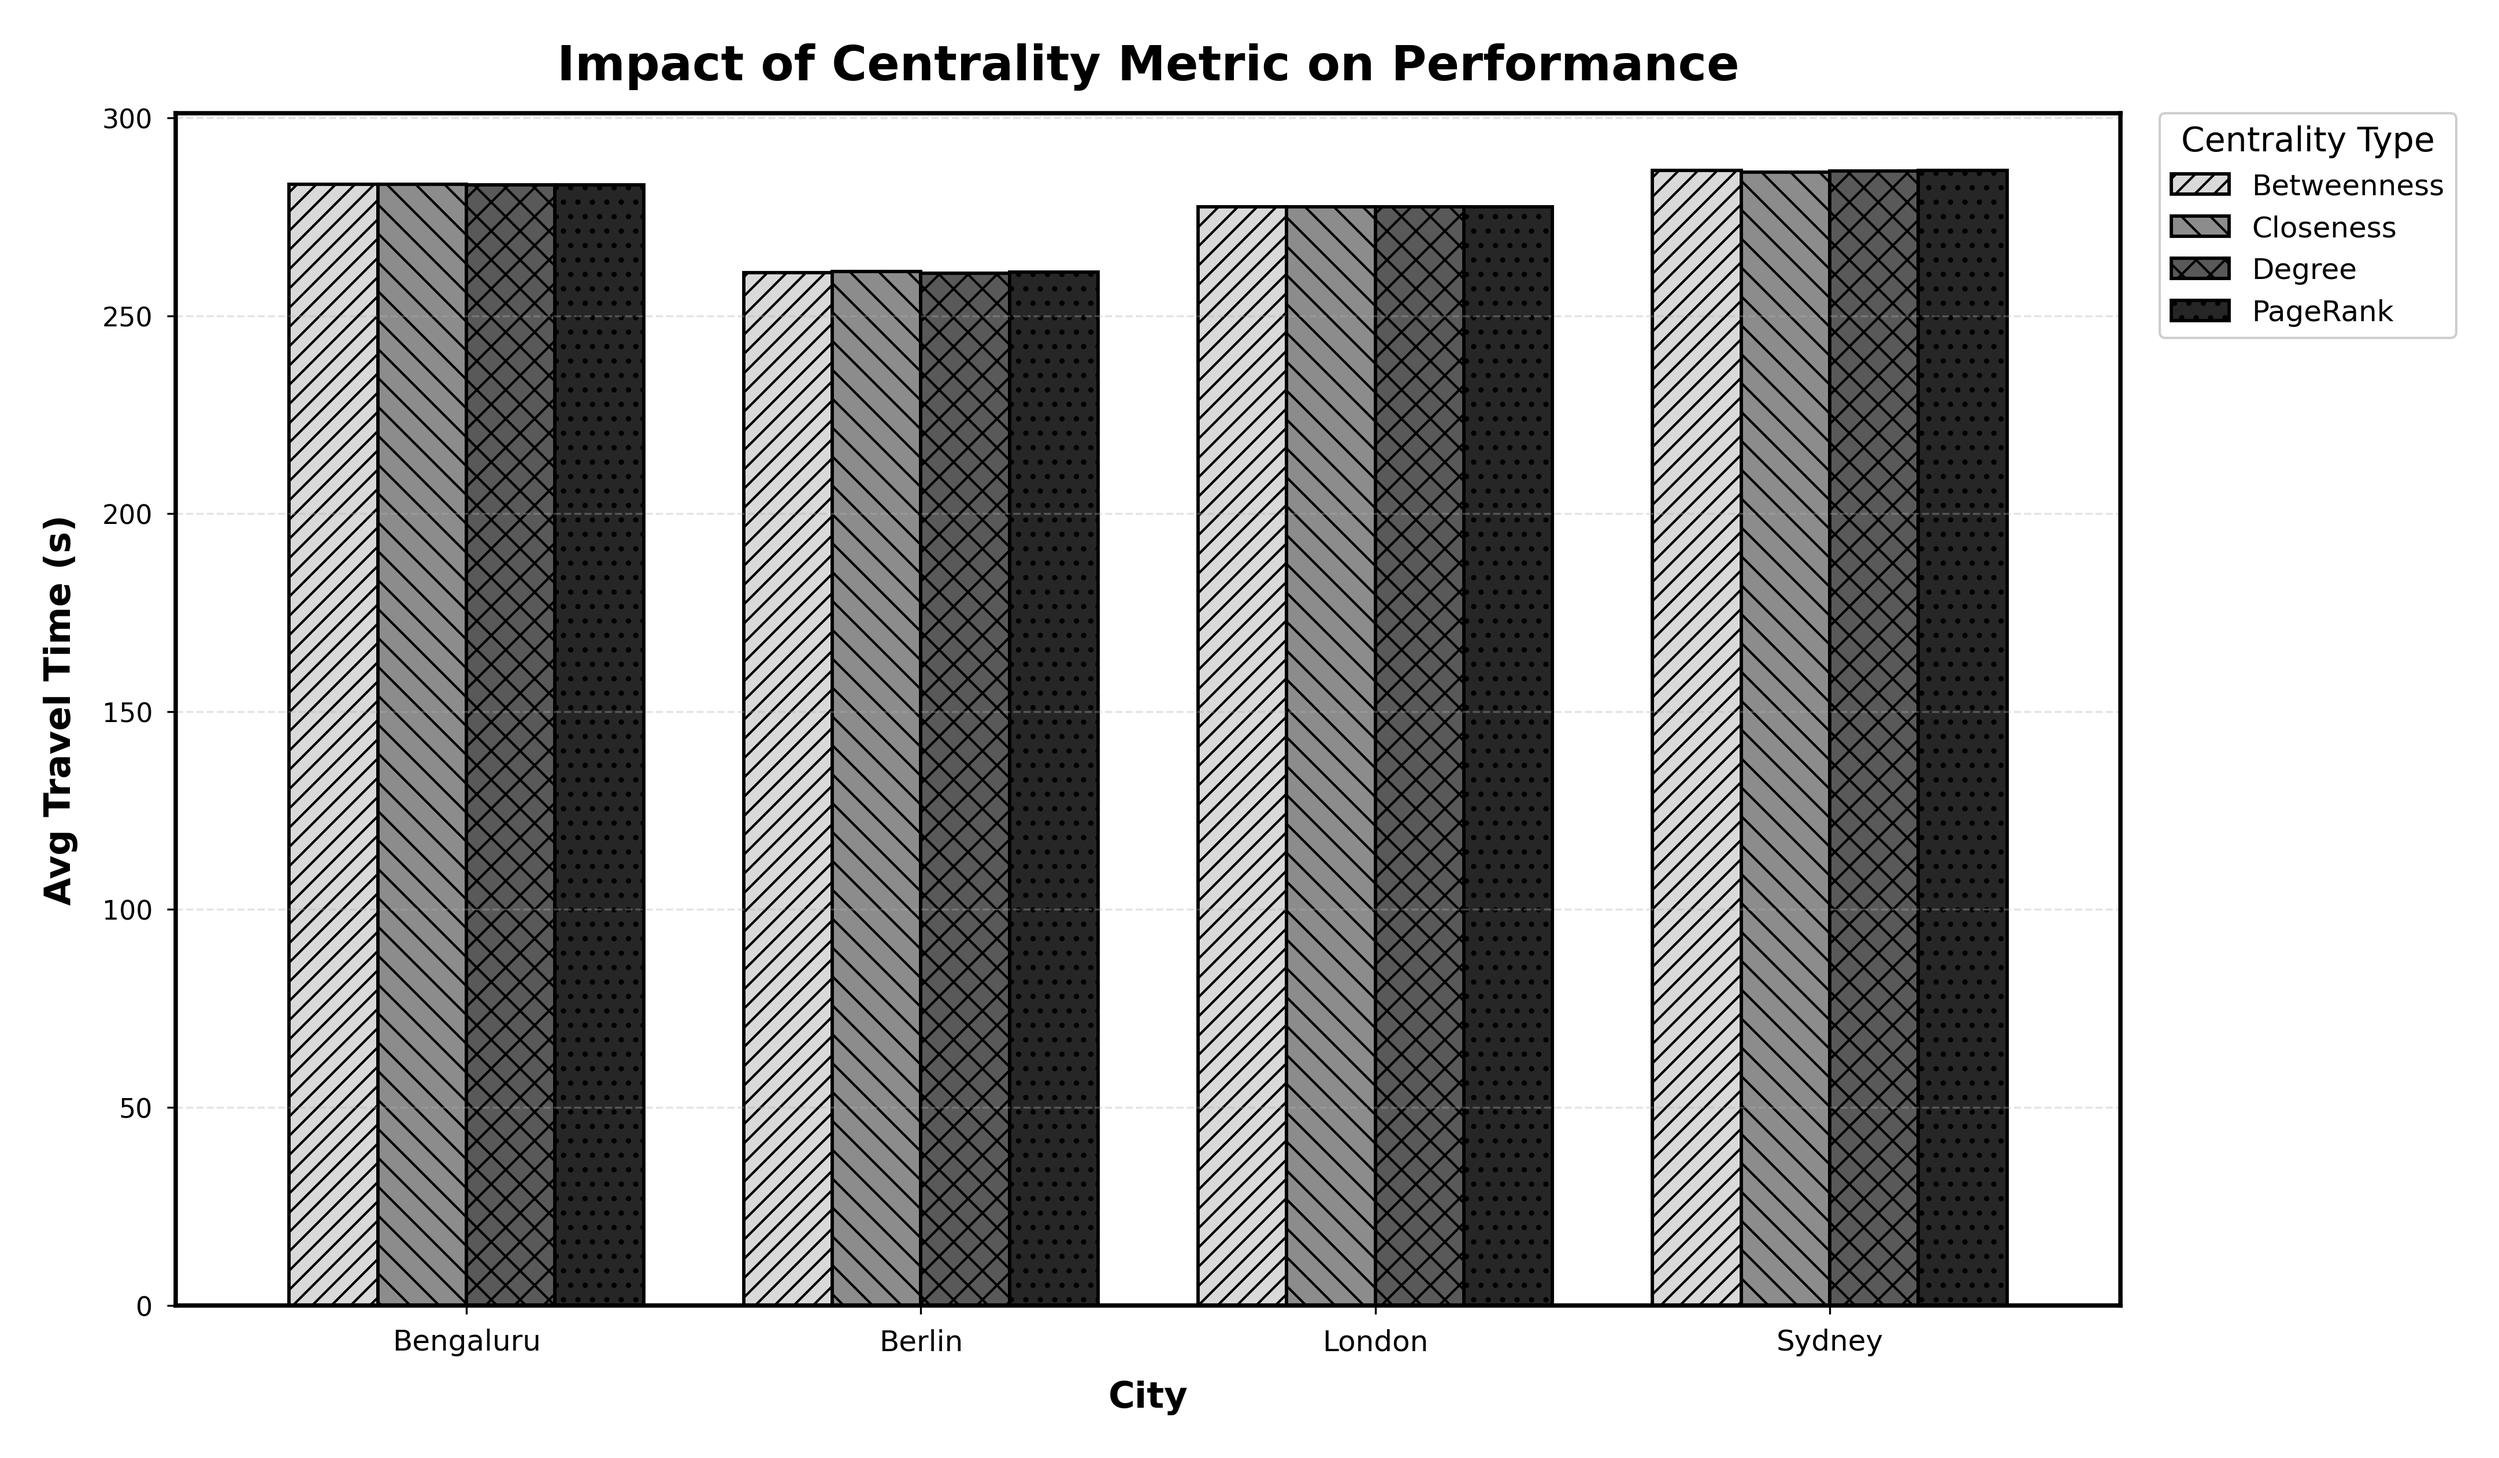
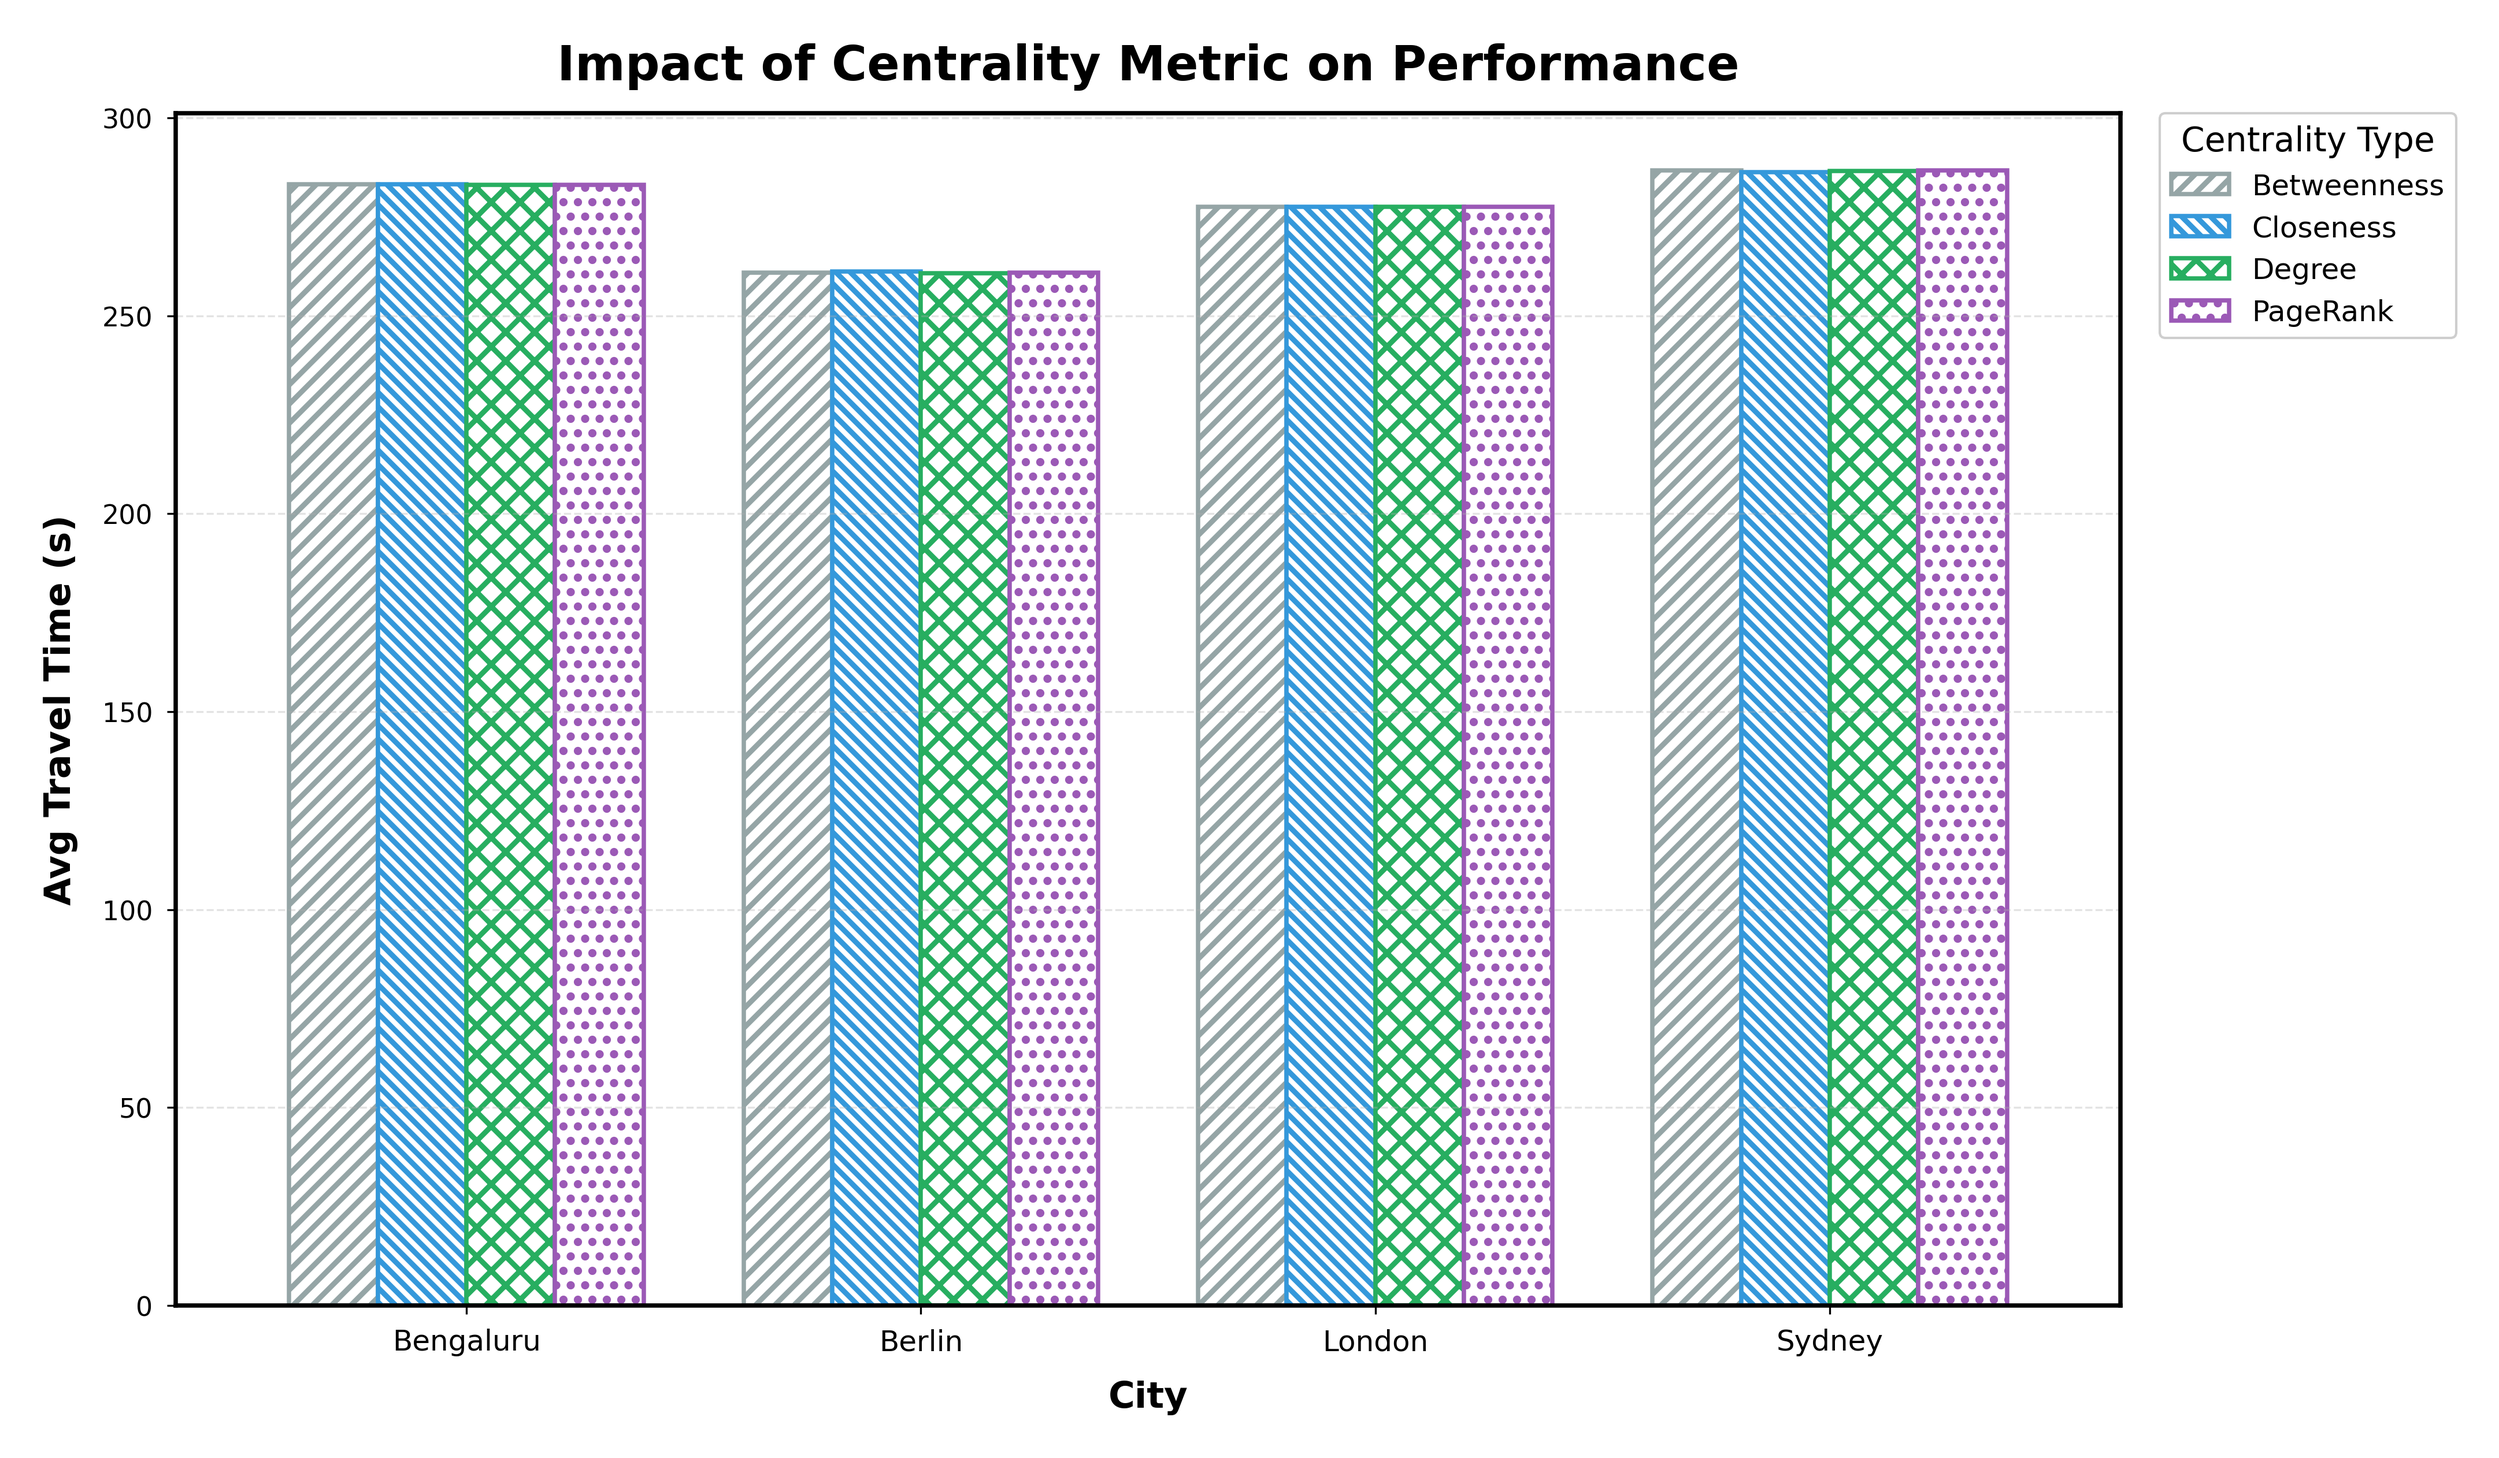
Improve bar styling for centrality plot
Use a color palette with hatch patterns for on-screen and grayscale
printing. Increase hatch and edge linewidths, render bars with white
faces and colored edges, and remove obsolete final_paper_grid_hd.png.

diff --git a/centrality_comparison.py b/centrality_comparison.py
@@ -90,18 +90,26 @@ def run_multi_city_comparison():
         'legend.frameon': True,
     })
     fig, ax = plt.subplots(figsize=(14, 8), constrained_layout=True)
+    palette = ['#95a5a6', '#3498db', '#27ae60', '#9b59b6']
+    hatches = ['///', '\\\\\\\\', 'xx', '..']
+    plt.rcParams['hatch.linewidth'] = 2.2
     pivot_df.plot(
         kind='bar',
         ax=ax,
         edgecolor='black',
-        linewidth=1.4,
-        color=['#d9d9d9', '#8c8c8c', '#595959', '#262626'],
+        linewidth=1.8,
+        color=palette,
         width=0.78,
     )
-    bars, hatches = ax.patches, ['///', '\\\\', 'xx', '..']
-    num_measures = len(pivot_df.columns)
-    for i, bar in enumerate(bars):
-        bar.set_hatch(hatches[i // num_measures])
+
+    # Keep color for on-screen readability and hatch patterns for grayscale printing.
+    for measure_idx, container in enumerate(ax.containers):
+        edge_color = palette[measure_idx % len(palette)]
+        hatch = hatches[measure_idx % len(hatches)]
+        for bar in container:
+            bar.set_facecolor('white')
+            bar.set_edgecolor(edge_color)
+            bar.set_hatch(hatch)
     
     ax.set_ylabel("Avg Travel Time (s)", fontweight='bold', fontsize=15)
     ax.set_xlabel("City", fontweight='bold', fontsize=15)
